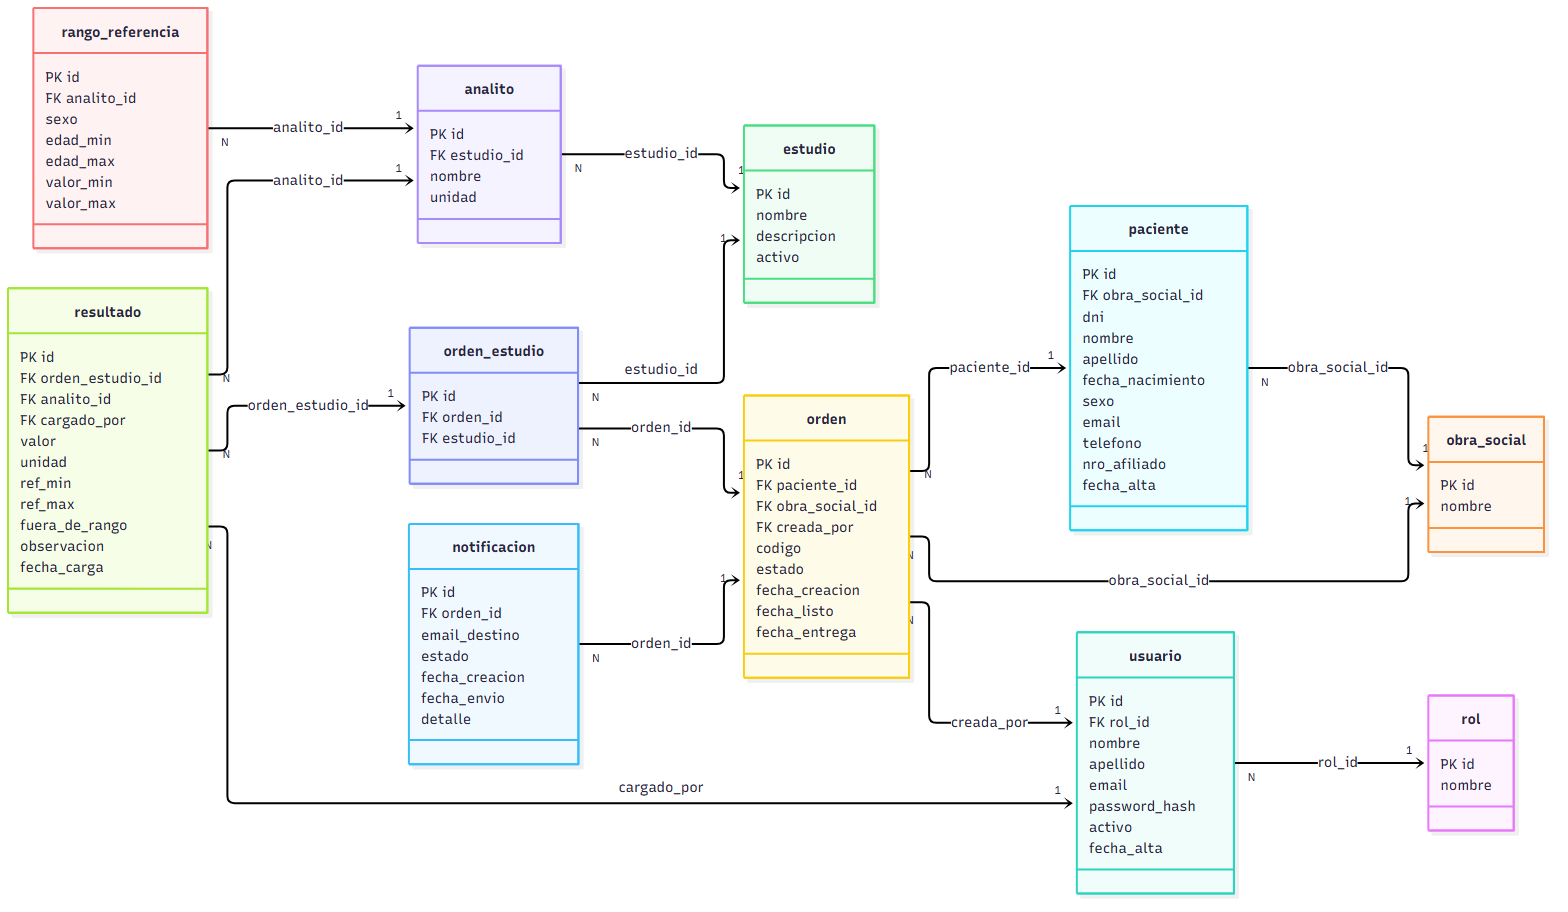
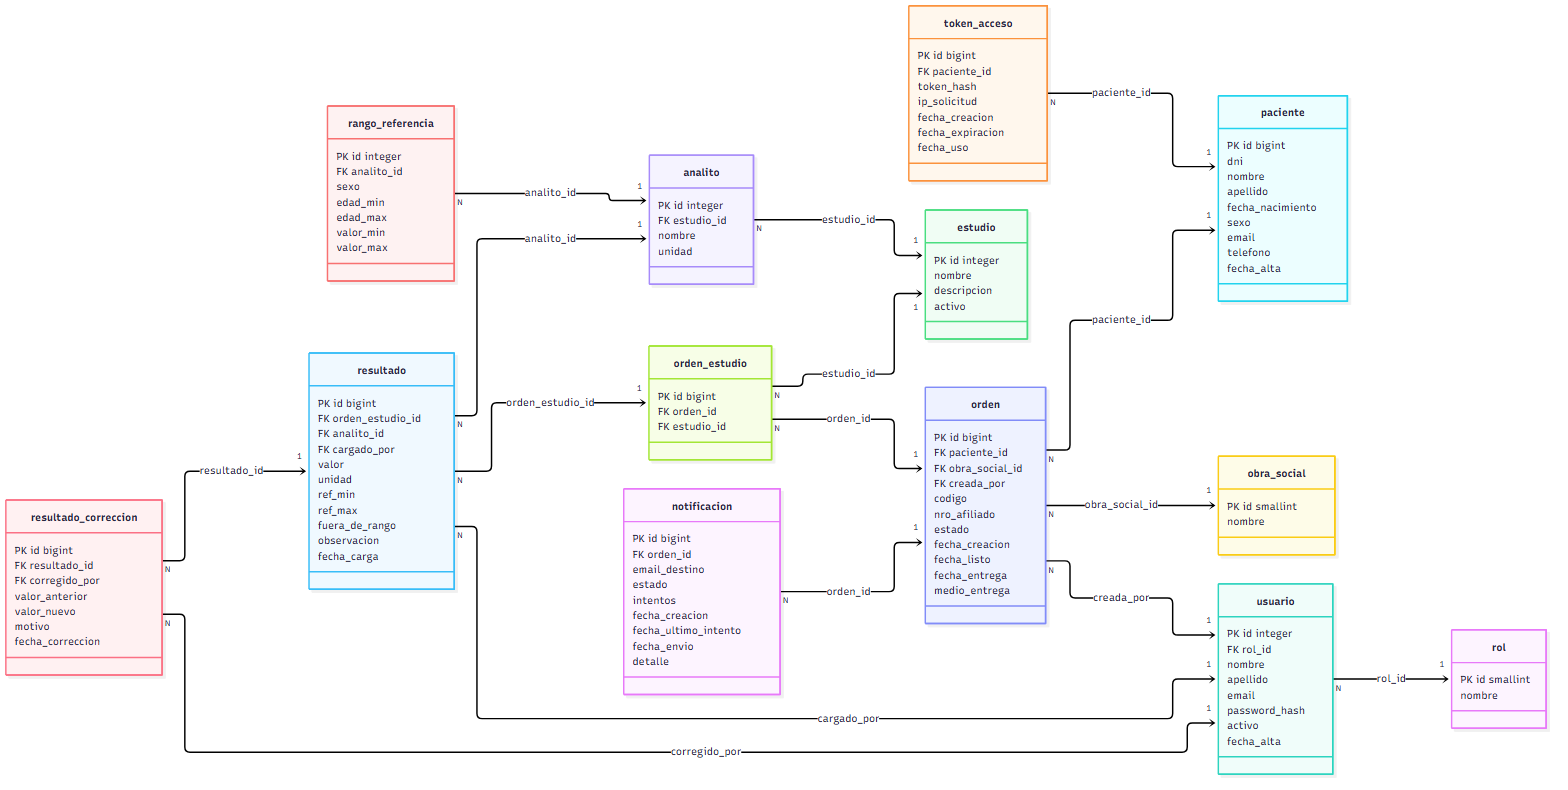
Revisión 2: actualiza el diagrama entidad-relación y la documentación de la base de datos

diff --git a/database/README.md b/database/README.md
@@ -4,7 +4,7 @@ Esquema relacional en **PostgreSQL** (versión 12 o superior).
 
 | Archivo | Contenido |
 | --- | --- |
-| [`01_schema.sql`](01_schema.sql) | Creación de tablas, relaciones (claves foráneas), índices y vista de historial |
+| [`01_schema.sql`](01_schema.sql) | Creación de las 13 tablas, sus 15 relaciones (claves foráneas), índices y vista de historial |
 | [`02_datos_prueba.sql`](02_datos_prueba.sql) | Datos ficticios para probar el esquema y los módulos |
 | [`diagrama-er.md`](diagrama-er.md) | Diagrama entidad-relación, relaciones explicadas y decisiones de diseño |
 
@@ -29,22 +29,23 @@ Usuarios internos (contraseña de prueba: `LabDemo2026!`, solo desarrollo):
 | `recepcion@labresultados.test` | Recepción |
 | `bioquimica@labresultados.test` | Bioquímico |
 
-Pacientes para probar la consulta (código de orden + DNI):
+Pacientes y casos de prueba:
 
 | Paciente | DNI | Caso de prueba |
 | --- | --- | --- |
-| María González | `28456789` | 3 órdenes en un año; su glucosa sube 98 → 112 → 126 (historial) |
-| Juan Pérez | `33987654` | Orden `EN_PROCESO`: todavía no ve resultados |
-| Alex Romero | `40123456` | Sin obra social; DNI no binario (usa el rango general) |
+| María González | `28456789` | 3 órdenes en un año; su glucosa sube 98 → 112 → 126 (historial). Cambió de OSDE a Swiss Medical (cada orden guarda su cobertura). Una hemoglobina corregida de 11.2 a 11.4 (auditoría). Una orden entregada por portal y otra por mostrador |
+| Juan Pérez | `33987654` | Orden `EN_PROCESO`: todavía no ve resultados. Pidió un enlace de acceso que venció sin usarse |
+| Alex Romero | `40123456` | Particular (sin obra social); DNI no binario (usa el rango general). Su aviso por email salió en el segundo intento |
 
 ## Consultas de ejemplo
 
-Consulta del paciente (módulo *Consulta de resultados*):
+Consulta del paciente (módulo *Consulta de resultados*). El paciente ya entró con su enlace de acceso, así que el backend conoce su `paciente_id` por la sesión y solo filtra por él:
 
 ```sql
 SELECT estudio, analito, valor, unidad, ref_min, ref_max, fuera_de_rango
 FROM vista_historial_resultados
-WHERE codigo_orden = 'LR-C82NTE' AND dni = '28456789';
+WHERE paciente_id = 1                -- paciente de la sesión (María)
+  AND codigo_orden = 'LR-C82NTE';
 ```
 
 Evolución de un analito en el tiempo (módulo *Historial de resultados*):
@@ -52,8 +53,28 @@ Evolución de un analito en el tiempo (módulo *Historial de resultados*):
 ```sql
 SELECT fecha_orden, valor, unidad, fuera_de_rango
 FROM vista_historial_resultados
-WHERE dni = '28456789' AND analito = 'Glucosa'
+WHERE paciente_id = 1 AND analito = 'Glucosa'
 ORDER BY fecha_orden;
+```
+
+Validar un enlace de acceso (módulo *Gestión de usuarios y acceso*). Solo funciona una vez y dentro de los 15 minutos; el backend recibe el token del enlace y lo compara por su hash:
+
+```sql
+UPDATE token_acceso
+SET fecha_uso = now()
+WHERE token_hash = encode(sha256(convert_to('<token del enlace>', 'UTF8')), 'hex')
+  AND fecha_uso IS NULL
+  AND now() < fecha_expiracion
+RETURNING paciente_id;
+```
+
+Notificaciones que tiene que procesar la tarea de envío (módulo *Notificaciones*):
+
+```sql
+SELECT id, orden_id, email_destino, intentos
+FROM notificacion
+WHERE estado = 'PENDIENTE'
+ORDER BY fecha_creacion;
 ```
 
 Órdenes pendientes de resultados (módulo *Gestión de resultados*):
